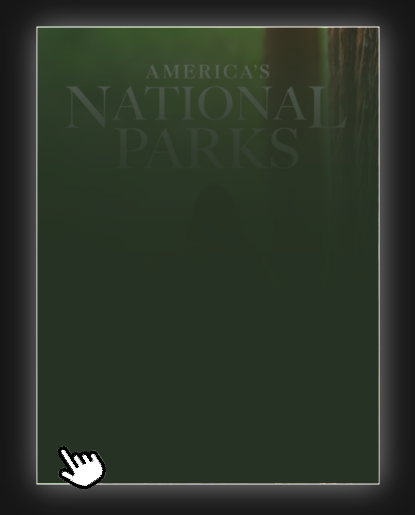
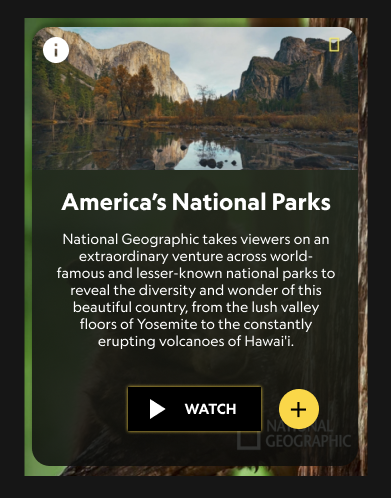
images in place

diff --git a/final/index.html b/final/index.html
@@ -32,10 +32,12 @@
                 <div class="col_1_3">
                     <h3>Triggers</h3>
                     <ul>
-                        <li>Hover on image of TV show on "Browse" page</li>
-                        <li>Hover on Information button</li>
-                        <li>Hover off Information button</li>
-                        <li>Hover off image of TV show on "Browse" page</li>
+                        <li>Hover on/off image</li>
+                        <li>Hover on/off Information button</li>
+                        <li>Hover on/off watch button</li>
+                        <li>Hover on/off add button</li>
+                        <li>Click add button</li>
+                        
                     </ul>
                 </div>
                 <div class="col_1_3">
@@ -43,29 +45,61 @@
                     <ul>
                         <li>Hover on image: 
                             <ul>
-                                <li>Pointer changes to a finger</li>
+                                <li>Image zooms in about 1.05x over time</li>
+                                <li>White gradient outer glow fades in behind image</li>
+                                <li>White border appears around image</li>
                                 <li>Circle outline with “i” fades in over time on left corner of image</li>
-                            </ul>
-                        </li>
-                        <br>
-                        <li>Hover on Information button: 
-                            <ul>
-                                <li>Translucent gray rectangle fades from 0 to 60% opacity over time</li>
-                                <li>Rectangle rises from bottom to overlay the image</li>
-                            </ul>
-                        </li>
-                        <br>
-                        <li>Hover off Information button 
-                            <ul>
-                                <li>Translucent gray rectangle fades from 60% to 0 opacity over time</li>
-                                <li>Rectangle moves down and disappears over time</li>
                             </ul>
                         </li>
                         <br>
                         <li>Hover off image: 
                             <ul>
                                 <li>Circle outline with “i” on left corner of image fades out over time</li>
-                                <li>Finger changes back to pointer</li>
+                                <li>Image zooms out about -1.05x over time</li>
+                                <li>White gradient outer glow behind image disappears</li>
+                                <li>White border around image disappears</li>
+                            </ul>
+                        </li>
+                        <br>
+                        <li>Hover on Information button: 
+                            <ul>
+                                <li>Translucent information card fades from 0 to 60% opacity over time</li>
+                            </ul>
+                        </li>
+                        <br>
+                        <li>Hover off Information button: 
+                            <ul>
+                                <li>Translucent information card fades from 60% to O opacity over time</li>
+                            </ul>
+                        </li>
+                        <br>
+                        <li>Hover on watch button:
+                            <ul>
+                                <li>Button becomes yellow with black text</li>
+                            </ul>
+                        </li>
+                        <br>
+                        <li>Hover off watch button:
+                            <ul>
+                                <li>Button goes back to original black with white text</li>
+                            </ul>
+                        </li>
+                        <br>
+                        <li>Hover on add button:
+                            <ul>
+                                <li>Button becomes yellow with black icon</li>
+                            </ul>
+                        </li>
+                        <br>
+                        <li>Hover off add button:
+                            <ul>
+                                <li>Button goes back to original black with white icon</li>
+                            </ul>
+                        </li>
+                        <br>
+                        <li>Click add button:
+                            <ul>
+                                <li>+ turns to a checkmark</li>
                             </ul>
                         </li>
                     </ul>
@@ -75,29 +109,61 @@
                     <ul>
                         <li>Hover on image: 
                             <ul>
-                                <li>Pointer changes to a finger</li>
+                                <li>Image zooms in about 1.05x over time</li>
+                                <li>White gradient outer glow fades in behind image</li>
+                                <li>White border appears around image</li>
                                 <li>Circle outline with “i” fades in over time on left corner of image</li>
-                            </ul>
-                        </li>
-                        <br>
-                        <li>Hover on Information button: 
-                            <ul>
-                                <li>Translucent gray rectangle fades from 0 to 60% opacity over time</li>
-                                <li>Rectangle rises from bottom to overlay the image</li>
-                            </ul>
-                        </li>
-                        <br>
-                        <li>Hover off Information button 
-                            <ul>
-                                <li>Translucent gray rectangle fades from 60% to 0 opacity over time</li>
-                                <li>Rectangle moves down and disappears over time</li>
                             </ul>
                         </li>
                         <br>
                         <li>Hover off image: 
                             <ul>
                                 <li>Circle outline with “i” on left corner of image fades out over time</li>
-                                <li>Finger changes back to pointer</li>
+                                <li>Image zooms out about -1.05x over time</li>
+                                <li>White gradient outer glow behind image disappears</li>
+                                <li>White border around image disappears</li>
+                            </ul>
+                        </li>
+                        <br>
+                        <li>Hover on Information button: 
+                            <ul>
+                                <li>Translucent information card fades from 0 to 60% opacity over time</li>
+                            </ul>
+                        </li>
+                        <br>
+                        <li>Hover off Information button: 
+                            <ul>
+                                <li>Translucent information card fades from 60% to O opacity over time</li>
+                            </ul>
+                        </li>
+                        <br>
+                        <li>Hover on watch button:
+                            <ul>
+                                <li>Button becomes yellow with black text</li>
+                            </ul>
+                        </li>
+                        <br>
+                        <li>Hover off watch button:
+                            <ul>
+                                <li>Button goes back to original black with white text</li>
+                            </ul>
+                        </li>
+                        <br>
+                        <li>Hover on add button:
+                            <ul>
+                                <li>Button becomes yellow with black icon</li>
+                            </ul>
+                        </li>
+                        <br>
+                        <li>Hover off add button:
+                            <ul>
+                                <li>Button goes back to original black with white icon</li>
+                            </ul>
+                        </li>
+                        <br>
+                        <li>Click add button:
+                            <ul>
+                                <li>+ turns to a checkmark</li>
                             </ul>
                         </li>
                     </ul>
@@ -105,7 +171,13 @@
                 <div class="col_1_3">
                     <h3>Loops & Modes</h3>
                     <ul>
-                        <li>Mode: Information Button</li>
+                        <li>Modes: 
+                            <ul>
+                                <li>Information Button</li>
+                            <li>Information Card</li>
+                            </ul>
+                            
+                        </li>
                     </ul>
                 </div>
             </div>
@@ -118,18 +190,22 @@
                 <hr>
             </div>
             <div class="col_2">
+                <img src="images/step0.png" class="image">
+                
                 <img src="images/step1.png" class="image">
-                1
+                
                 <img src="images/step2.png" class="image">
-                2
+                
                 <img src="images/step3.png" class="image">
-                3
+                
                 <img src="images/step4.png" class="image">
-                4
+                
                 <img src="images/step5.png" class="image">
-                5
+                
                 <img src="images/step6.png" class="image">
-                6
+                
+                <img src="images/step0.png" class="image">
+
             </div>
         </section>
     </main>

diff --git a/final/styles.css b/final/styles.css
@@ -124,7 +124,7 @@ a{
     display: flex;
     flex-direction: row;
     flex-wrap: wrap;
-    justify-content: space-between;
+    justify-content: center;
     align-items: center;
     position: relative;
     width: 80%;
